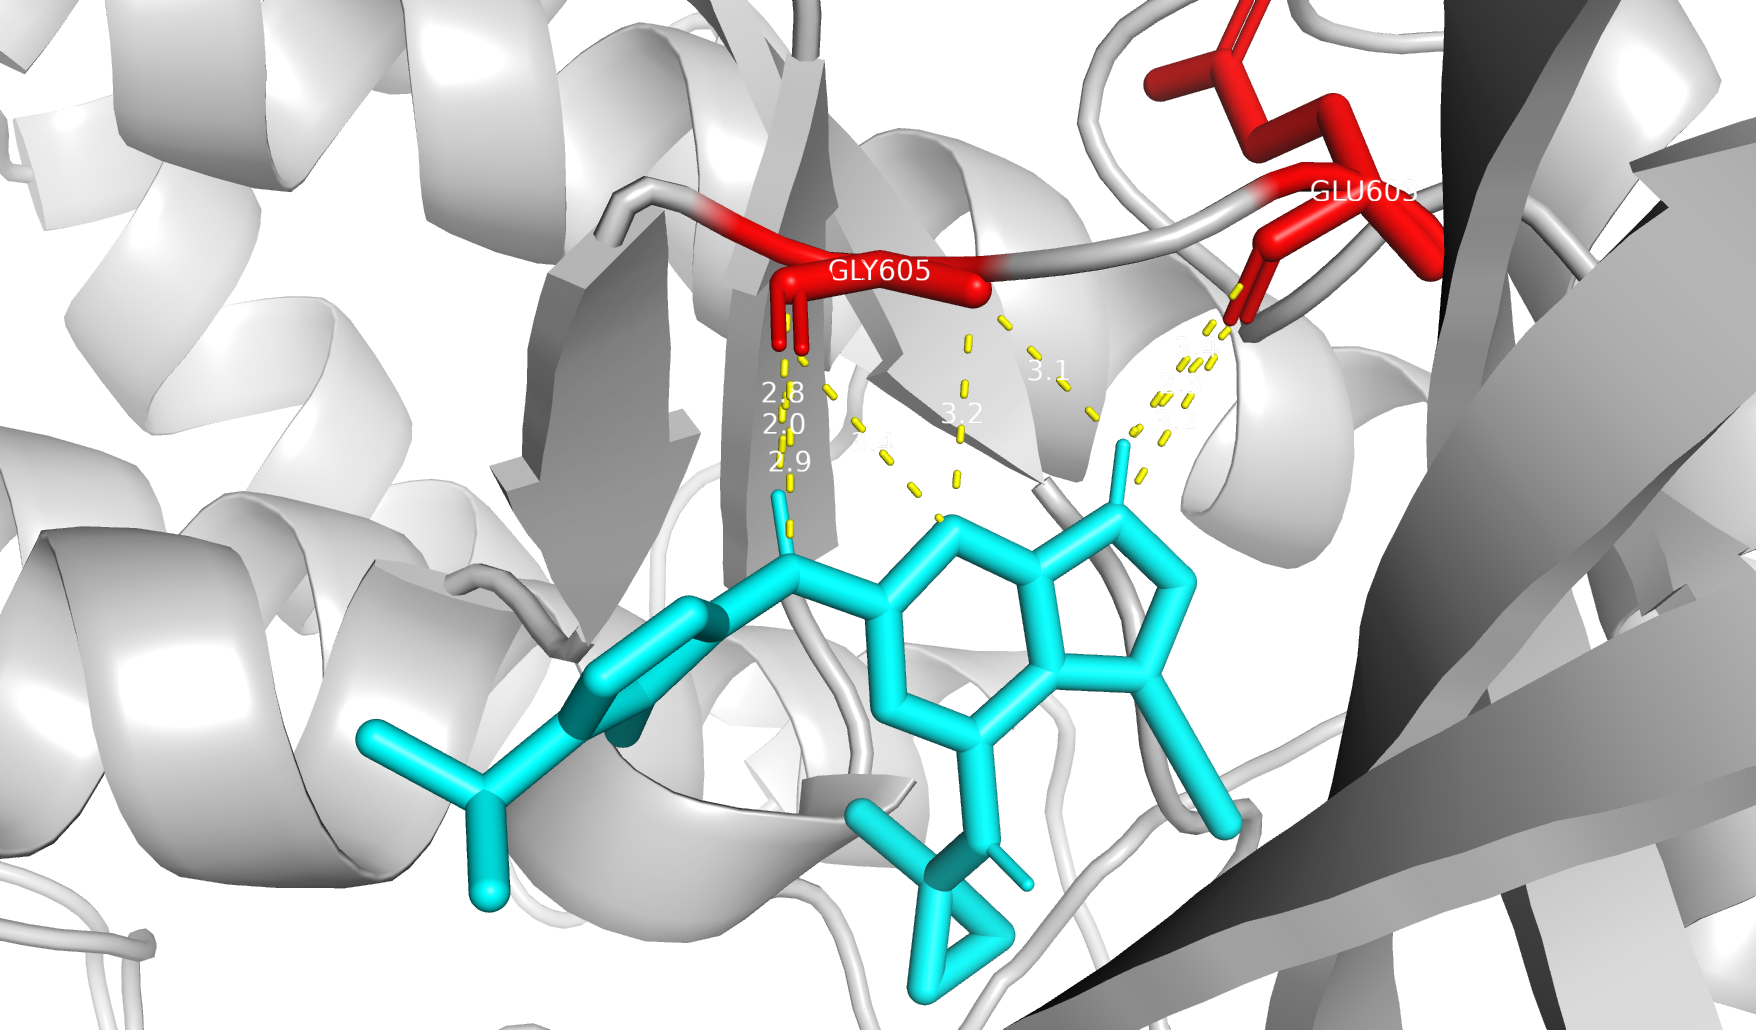
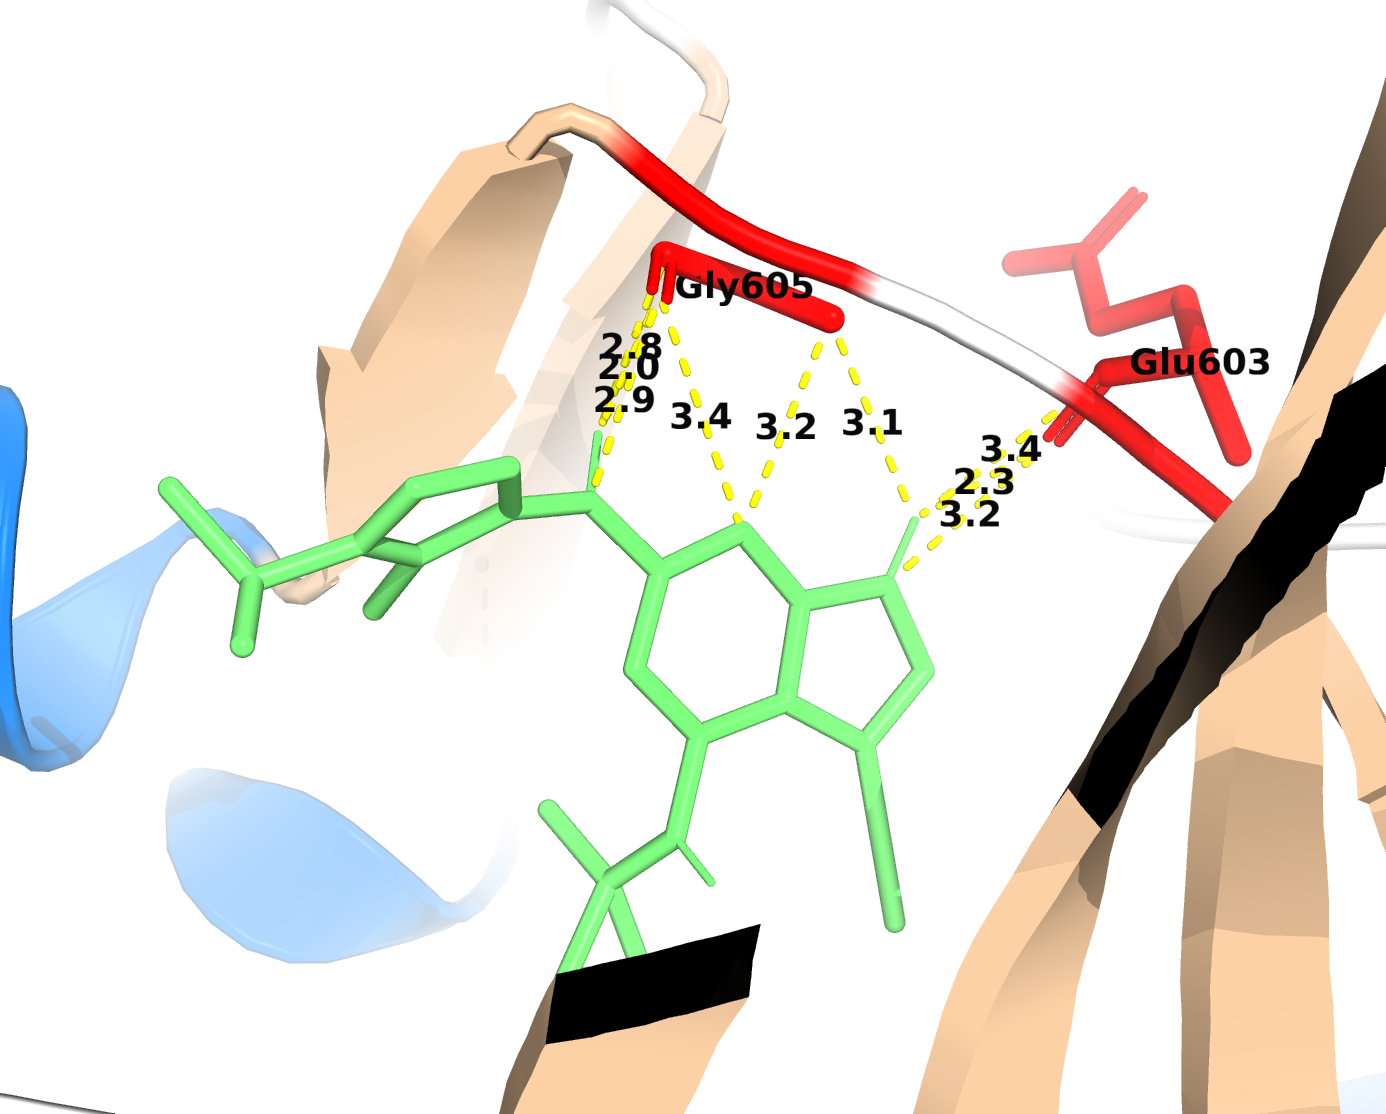
add RMSD validation — best pose 0.666 Å, exceptional reproduction of crystal structure

diff --git a/scripts/rmsd_validation.py b/scripts/rmsd_validation.py
@@ -1,0 +1,122 @@
+import numpy as np
+import pandas as pd
+from rdkit import Chem
+from rdkit.Chem import AllChem, rdMolAlign
+from pathlib import Path
+from itertools import permutations
+from scipy.spatial.distance import cdist
+from scipy.optimize import linear_sum_assignment
+
+
+# Paths 
+CRYSTAL_SDF  = "data/ligands/raw/5LJJ_AD5.sdf"
+REDOCK_PDBQT = "docking/results/5LJJ_AD5_redock_out.pdbqt"
+OUTPUT_DIR   = Path("analysis/validation")
+OUTPUT_DIR.mkdir(parents=True, exist_ok=True)
+
+
+import numpy as np
+
+# Load crystal coordinates directly from PDB
+print("Loading crystal coordinates from 5LJJ.pdb...")
+crystal_coords = np.load(
+    "data/receptor/reversine_crystal_coords.npy"
+)
+print(f"  Crystal pose: {len(crystal_coords)} heavy atoms")
+
+
+# Parse docked poses from PDBQT 
+print("\nParsing docked poses...")
+
+def parse_pdbqt_poses(filepath):
+    """Extract all poses from a multi-model PDBQT file."""
+    poses = []
+    current = []
+    with open(filepath) as f:
+        for line in f:
+            if line.startswith("MODEL"):
+                current = []
+            elif line.startswith("ENDMDL"):
+                poses.append(current)
+            elif line.startswith(("ATOM", "HETATM")):
+                current.append(line)
+    return poses
+
+
+
+# Convert PDBQT pose to RDKit mol 
+def pdbqt_to_coords(pdbqt_lines):
+    """Extract heavy atom coordinates from PDBQT lines."""
+    coords = []
+    for line in pdbqt_lines:
+        atom_type = line[77:79].strip() if len(line) > 77 else ""
+        # Skip hydrogens
+        if atom_type.startswith("H"):
+            continue
+        try:
+            x = float(line[30:38])
+            y = float(line[38:46])
+            z = float(line[46:54])
+            coords.append([x, y, z])
+        except ValueError:
+            continue
+    return np.array(coords)
+
+poses = parse_pdbqt_poses(REDOCK_PDBQT)
+print(f"  Found {len(poses)} docked poses")
+
+
+# Calculate RMSD for each pose 
+print("\nCalculating RMSD for each pose vs crystal structure...")
+print("=" * 50)
+
+
+results = []
+
+for i, pose_lines in enumerate(poses):
+    docked_coords = pdbqt_to_coords(pose_lines)
+
+    if len(docked_coords) == 0:
+        continue
+
+    n = min(len(crystal_coords), len(docked_coords))
+    if n == 0:
+        continue
+
+    # Distance matrix between all pairs of atoms
+    dist_matrix = cdist(
+        crystal_coords[:n], docked_coords[:n]
+    )
+
+    # Optimal assignment
+    row_ind, col_ind = linear_sum_assignment(dist_matrix)
+    matched_crystal = crystal_coords[row_ind]
+    matched_docked  = docked_coords[col_ind]
+
+    diff = matched_crystal - matched_docked
+    rmsd = np.sqrt(np.mean(np.sum(diff**2, axis=1)))
+
+    results.append({"pose": i+1, "rmsd": round(rmsd, 3)})
+    print(f"  Pose {i+1}: RMSD = {rmsd:.3f} Å"
+          f"  {'✓ PASS' if rmsd < 2.0 else '✗ FAIL'}")
+
+
+# Summary 
+print("\n" + "=" * 50)
+best = min(results, key=lambda x: x["rmsd"])
+print(f"Best RMSD: {best['rmsd']:.3f} Å (Pose {best['pose']})")
+
+if best["rmsd"] < 2.0:
+    print("✓ VALIDATION PASSED — docking correctly")
+elif best["rmsd"] < 3.0:
+    print(" BORDERLINE — pose is close but above 2 Å threshold")
+else:
+    print(" VALIDATION FAILED — docking does not")
+
+
+# Save results 
+df = pd.DataFrame(results)
+df.to_csv(OUTPUT_DIR / "rmsd_validation.csv", index=False)
+print(f"\nResults saved → {OUTPUT_DIR}/rmsd_validation.csv")
+
+